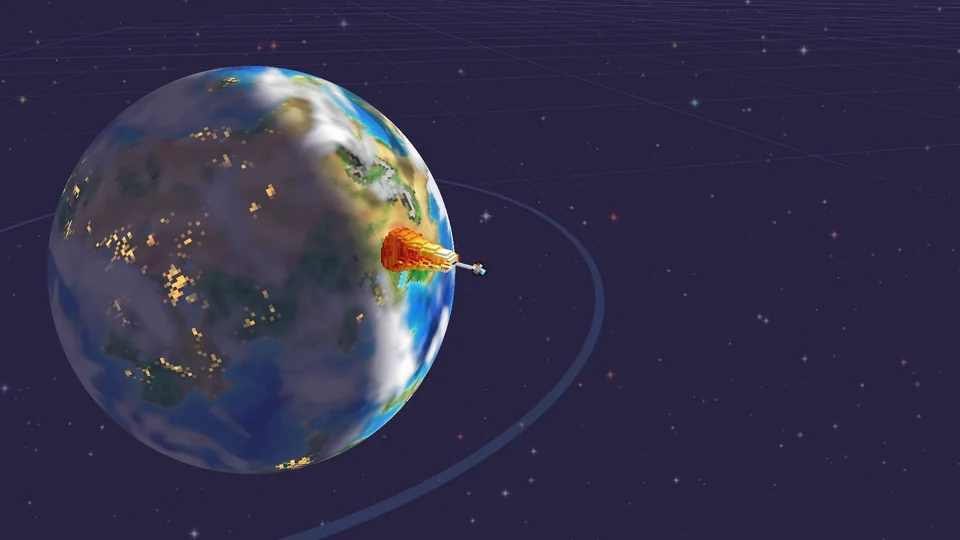
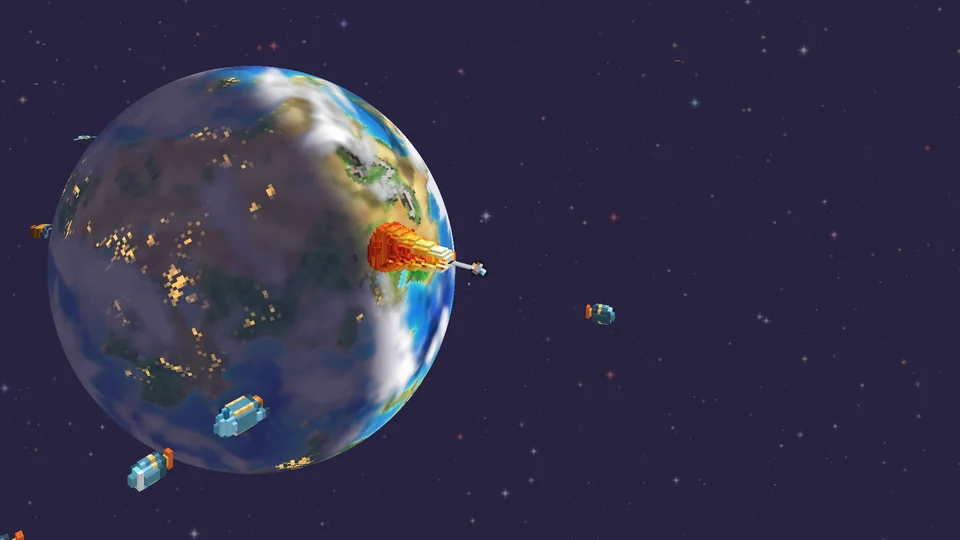
Re-shot stills from current develop: 3D booster launch hero, landings gallery

diff --git a/index.html b/index.html
@@ -38,7 +38,7 @@
     <img src="img/terra-booster-launch.webp"
          srcset="img/terra-booster-launch-960.webp 960w, img/terra-booster-launch.webp 1920w"
          sizes="100vw" width="1920" height="1080"
-         alt="A rocket burns its engine above Terra, the planet's night side lit by city lights">
+         alt="A rocket lifts off Terra on a voxel booster plume, the night side lit by city lights">
   </div>
 
   <div class="wrap">
@@ -182,6 +182,50 @@
       </div>
     </section>
   </div>
+
+  <section class="gallery-band">
+    <div class="wrap">
+      <h2 class="pixel"><img class="hicon" src="img/icons/camera_photo.png" width="48" height="48" alt="">Screenshots</h2>
+      <ul class="gallery">
+        <li>
+          <a href="img/terra-dawn-burn.webp">
+            <img src="img/terra-dawn-burn-960.webp" width="960" height="540" loading="lazy" alt="A rocket burns along Terra's terminator, cargo ships trailing behind">
+          </a>
+          <span>Burning over Terra's day/night line, city lights on</span>
+        </li>
+        <li>
+          <a href="img/terra-parachute-descent.webp">
+            <img src="img/terra-parachute-descent-960.webp" width="960" height="540" loading="lazy" alt="A capsule drifts down to Terra's night side under three parachutes">
+          </a>
+          <span>Parachuting down to Terra</span>
+        </li>
+        <li>
+          <a href="img/tilt-ares-parachute.webp">
+            <img src="img/tilt-ares-parachute-960.webp" width="960" height="540" loading="lazy" alt="A capsule under parachutes over the rusty limb of Ares">
+          </a>
+          <span>Parachutes over Ares</span>
+        </li>
+        <li>
+          <a href="img/tilt-aquara-descent.webp">
+            <img src="img/tilt-aquara-descent-960.webp" width="960" height="540" loading="lazy" alt="A rocket fires its engine to land on the ocean world Aquara">
+          </a>
+          <span>A powered landing on Aquara</span>
+        </li>
+        <li>
+          <a href="img/lune-crash-fireball.webp">
+            <img src="img/lune-crash-fireball-960.webp" width="960" height="540" loading="lazy" alt="A voxel fireball blooms where a ship hit Lune">
+          </a>
+          <span>Coming in too fast at Lune</span>
+        </li>
+        <li>
+          <a href="img/starliner-over-terra.webp">
+            <img src="img/starliner-over-terra-960.webp" width="960" height="540" loading="lazy" alt="A Starliner burns past Terra among a stream of traffic">
+          </a>
+          <span>A Starliner under full thrust</span>
+        </li>
+      </ul>
+    </div>
+  </section>
 
   <section class="band" id="demo">
     <div class="wrap">

diff --git a/style.css b/style.css
@@ -113,6 +113,19 @@ nav a:hover, nav a:focus-visible, nav a[aria-current="page"] { color: var(--ink)
             font: 400 20px/1 VT323, monospace; color: var(--muted); }
 .fleet img { image-rendering: pixelated; }
 
+/* Screenshot gallery */
+.gallery-band { padding: 8px 0 64px; }
+.gallery-band h2 { display: flex; align-items: center; justify-content: center; gap: 14px;
+                   margin: 0 0 24px; font-size: 22px; color: var(--flame); }
+.gallery { display: grid; grid-template-columns: repeat(3, 1fr); gap: 16px; margin: 0; padding: 0; list-style: none; }
+.gallery a { display: block; border: 2px solid var(--edge); border-radius: 6px; overflow: hidden;
+             transition: transform .12s ease, border-color .12s ease; }
+.gallery a:hover, .gallery a:focus-visible { transform: translateY(-2px); border-color: var(--cream); }
+.gallery img { display: block; width: 100%; height: auto; aspect-ratio: 16 / 9; }
+.gallery span { display: block; margin-top: 8px; font: 400 20px/1.1 VT323, monospace; color: var(--muted); }
+@media (max-width: 900px) { .gallery { grid-template-columns: repeat(2, 1fr); } }
+@media (max-width: 560px) { .gallery { grid-template-columns: 1fr; } }
+
 /* Demo + follow bands */
 .band { border-top: 1px solid var(--line); padding: 56px 0; text-align: center; }
 .band h2 { margin: 0 0 12px; font-size: 26px; }
